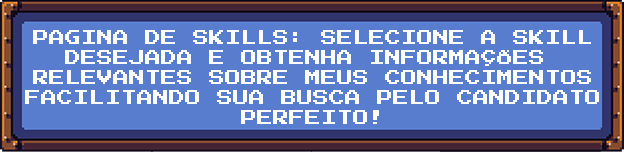
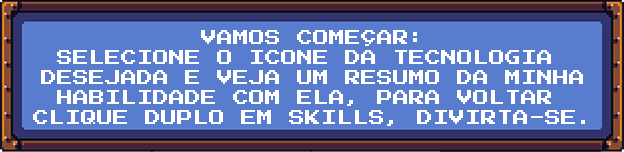
Revision-UpLoadModalStructure

diff --git a/src/components/ContentBody/index.js b/src/components/ContentBody/index.js
@@ -27,12 +27,15 @@ import {
   IconUnity,
   NamePerson,
   ContactNumber,
+  Modal,
 } from './styled.js';
 
 export const ContentBody = () => {
   const [gBoard, setGBoard] = useState('html5');
   const [gBlue, setGBlue] = useState('ASkills');
   const [person, setPerson] = useState('person');
+  const [modal, setModal] = useState('');
+  const [activeModal, setActiveModal] = useState('');
 
   const handleChangeBoard = (text) => {
     setGBoard(text.target.value);
@@ -40,6 +43,18 @@ export const ContentBody = () => {
 
   const handleChangeBlue = (text) => {
     setGBlue(text.target.value);
+    setModal(text.target.value);
+    switch (gBlue) {
+      case 'AWorks':
+        setActiveModal(true);
+        break;
+      case 'AProjects':
+        setActiveModal(true);
+        break;
+      default:
+        setActiveModal(false);
+        break;
+    }
   };
 
   const handleSetPerson = (text) => {
@@ -86,6 +101,12 @@ export const ContentBody = () => {
       <ScoreBoard src={`/images/quadrosV/` + gBoard + `.png`}></ScoreBoard>
       <VisorBoard src={`./images/quadrosV/` + gBlue + `.png`}></VisorBoard>
       <ContactNumber src="./images/contactNumber.png"></ContactNumber>
+      <Modal
+        style={{
+          display: activeModal ? 'block' : 'none',
+        }}
+        src={`./images/modal/` + modal + `.png`}
+      ></Modal>
     </Container>
   );
 };

diff --git a/src/components/ContentBody/styled.js b/src/components/ContentBody/styled.js
@@ -328,3 +328,15 @@ export const BottomBase = styled.div`
 
   background: #757162;
 `;
+
+export const Modal = styled.img`
+  display: none;
+  position: absolute;
+  width: 630px;
+  height: 413px;
+  left: 29px;
+  top: 38px;
+  border: none;
+  background-image: url('./images/modal/ASkills.png');
+  background-size: cover;
+`;
